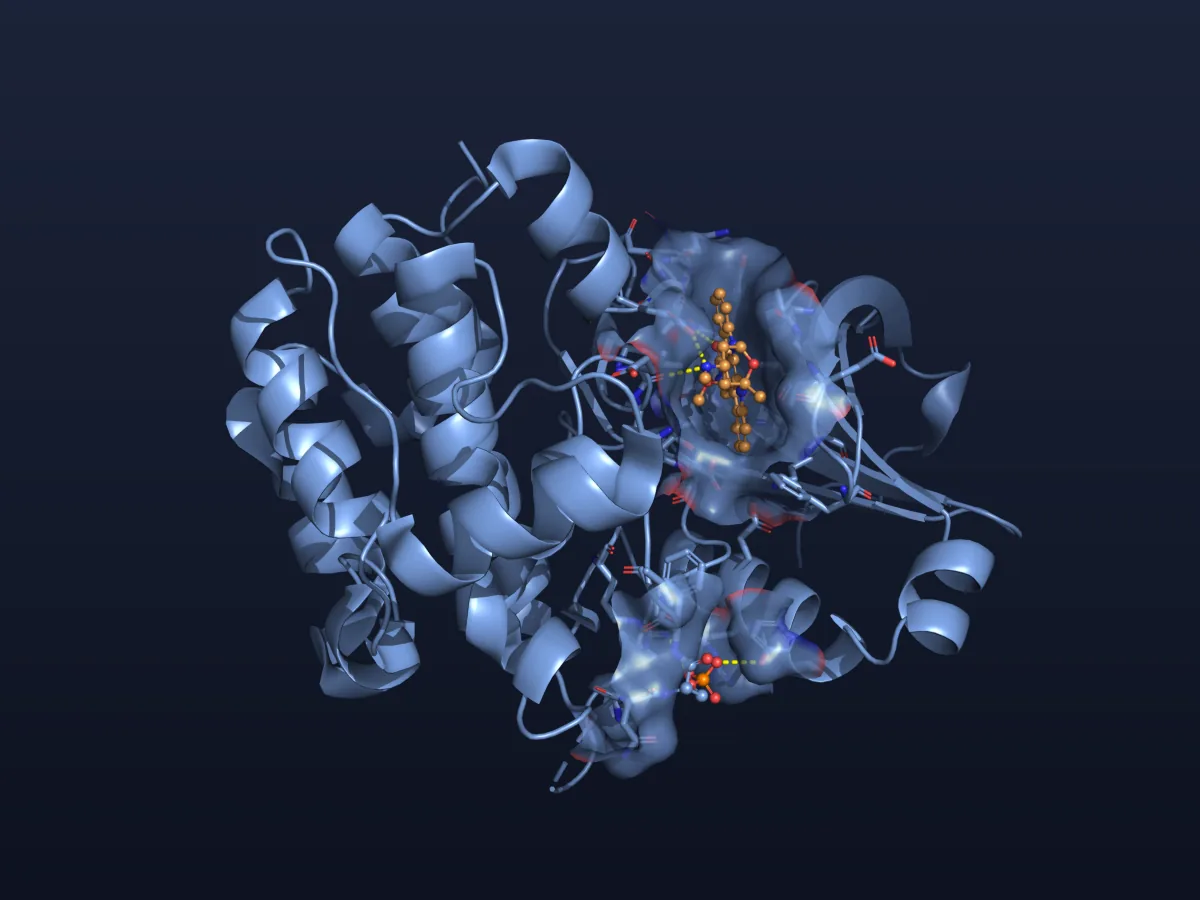
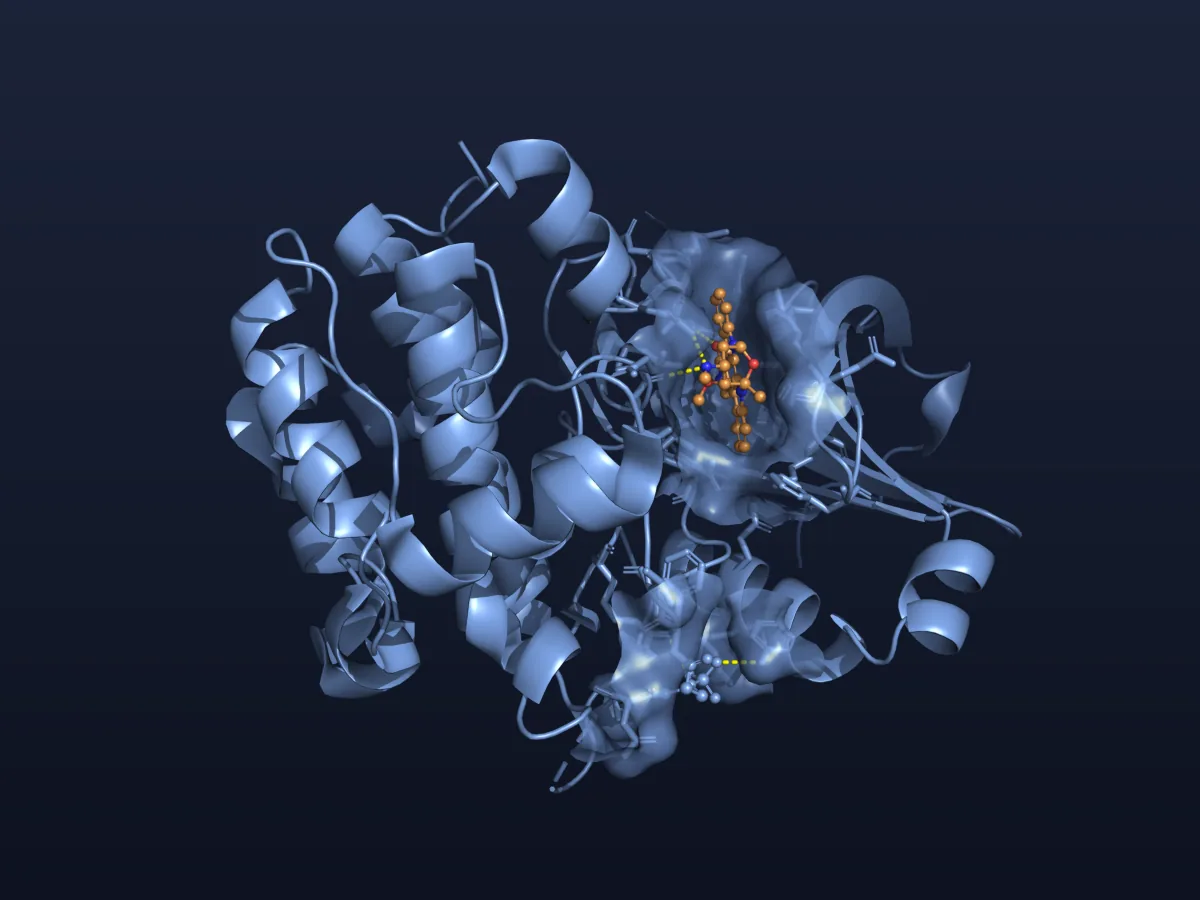
docs(site): a Presets section with one picture per menu row
- docs/index.html: new section "Presets" (and a nav link) with 42
  tiles in seven groups (cartoon, atoms and bonds, surface, binding,
  light, theme, floor), each captioned with its menu path; filter
  buttons per group. The filter script now works per section.
- docs/img/presets/: 42 ray-traced WebP pictures (800 x 600, 2.1 MB),
  hemoglobin 4hhb in the pastel palette, binding rows on 1oky.
- docs/media/capture/gallery.py: the PRESETS table; a theme is set
  before and after the preset, so ligands keep the theme's color.
  Re-rendered with it: kinase-floor-sage, kinase-pocket-night.
- docs/media/README.md: how the presets pictures were made.

Docs only: no version, no ChangeLog entry.

diff --git a/docs/index.html b/docs/index.html
@@ -130,6 +130,7 @@ nav .links a:hover { color: var(--text); text-decoration: none; }
 .grid button { width: 100%; border-radius: 10px; overflow: hidden; border: 1px solid var(--line); }
 .grid img { width: 100%; aspect-ratio: 4 / 3; object-fit: cover; transition: transform 0.3s; }
 .grid button:hover img { transform: scale(1.04); }
+.grid.small { grid-template-columns: repeat(auto-fill, minmax(200px, 1fr)); }
 .grid figcaption { font-size: 14px; color: var(--muted); padding: 6px 2px 0; }
 
 /* download */
@@ -160,6 +161,7 @@ dialog .close { position: fixed; top: 14px; right: 20px; font-size: 32px; line-h
     <a class="brand" href="#top"><img src="img/logo-mark.png" alt="">pymolish-studio</a>
     <div class="links">
       <a class="opt" href="#features">Features</a>
+      <a class="opt" href="#presets">Presets</a>
       <a href="#gallery">Gallery</a>
       <a class="opt" href="#download">Download</a>
       <a class="opt" href="https://github.com/adrian-jasinski/pymolish-studio/blob/master/docs/README.md">Docs</a>
@@ -321,6 +323,69 @@ dialog .close { position: fixed; top: 14px; right: 20px; font-size: 32px; line-h
   </div>
 </section>
 
+<section id="presets">
+  <div class="wrap">
+    <h2>Presets</h2>
+    <p class="muted">One click in the Presets menu. Same molecule, same colors: only the preset changes.</p>
+
+    <div class="chips" role="group" aria-label="Filter the presets">
+      <button aria-pressed="true" data-f="all">All</button>
+      <button aria-pressed="false" data-f="cartoon">Cartoon</button>
+      <button aria-pressed="false" data-f="atoms">Atoms</button>
+      <button aria-pressed="false" data-f="surface">Surface</button>
+      <button aria-pressed="false" data-f="binding">Binding</button>
+      <button aria-pressed="false" data-f="light">Light</button>
+      <button aria-pressed="false" data-f="theme">Theme</button>
+      <button aria-pressed="false" data-f="floor">Floor</button>
+    </div>
+
+    <div class="grid small">
+      <figure data-tags="cartoon"><button data-full="img/presets/cartoon-pretty.webp" data-cap="Presets › cartoon › pretty — hemoglobin (4hhb)"><img loading="lazy" src="img/presets/cartoon-pretty.webp" width="800" height="600" alt="Presets › cartoon › pretty — hemoglobin (4hhb)"></button><figcaption><span class="muted">cartoon ›</span> pretty</figcaption></figure>
+      <figure data-tags="cartoon"><button data-full="img/presets/cartoon-publication.webp" data-cap="Presets › cartoon › publication — hemoglobin (4hhb)"><img loading="lazy" src="img/presets/cartoon-publication.webp" width="800" height="600" alt="Presets › cartoon › publication — hemoglobin (4hhb)"></button><figcaption><span class="muted">cartoon ›</span> publication</figcaption></figure>
+      <figure data-tags="cartoon"><button data-full="img/presets/cartoon-technical.webp" data-cap="Presets › cartoon › technical — hemoglobin (4hhb)"><img loading="lazy" src="img/presets/cartoon-technical.webp" width="800" height="600" alt="Presets › cartoon › technical — hemoglobin (4hhb)"></button><figcaption><span class="muted">cartoon ›</span> technical</figcaption></figure>
+      <figure data-tags="cartoon"><button data-full="img/presets/cartoon-b-factor-putty.webp" data-cap="Presets › cartoon › b factor putty — hemoglobin (4hhb)"><img loading="lazy" src="img/presets/cartoon-b-factor-putty.webp" width="800" height="600" alt="Presets › cartoon › b factor putty — hemoglobin (4hhb)"></button><figcaption><span class="muted">cartoon ›</span> b factor putty</figcaption></figure>
+      <figure data-tags="cartoon"><button data-full="img/presets/cartoon-wire.webp" data-cap="Presets › cartoon › wire — hemoglobin (4hhb)"><img loading="lazy" src="img/presets/cartoon-wire.webp" width="800" height="600" alt="Presets › cartoon › wire — hemoglobin (4hhb)"></button><figcaption><span class="muted">cartoon ›</span> wire</figcaption></figure>
+      <figure data-tags="cartoon"><button data-full="img/presets/cartoon-spring.webp" data-cap="Presets › cartoon › spring — hemoglobin (4hhb)"><img loading="lazy" src="img/presets/cartoon-spring.webp" width="800" height="600" alt="Presets › cartoon › spring — hemoglobin (4hhb)"></button><figcaption><span class="muted">cartoon ›</span> spring</figcaption></figure>
+      <figure data-tags="cartoon"><button data-full="img/presets/cartoon-cylinders.webp" data-cap="Presets › cartoon › cylinders — hemoglobin (4hhb)"><img loading="lazy" src="img/presets/cartoon-cylinders.webp" width="800" height="600" alt="Presets › cartoon › cylinders — hemoglobin (4hhb)"></button><figcaption><span class="muted">cartoon ›</span> cylinders</figcaption></figure>
+      <figure data-tags="cartoon"><button data-full="img/presets/cartoon-contour.webp" data-cap="Presets › cartoon › contour cartoon — hemoglobin (4hhb)"><img loading="lazy" src="img/presets/cartoon-contour.webp" width="800" height="600" alt="Presets › cartoon › contour cartoon — hemoglobin (4hhb)"></button><figcaption><span class="muted">cartoon ›</span> contour cartoon</figcaption></figure>
+      <figure data-tags="atoms"><button data-full="img/presets/atoms-space-filling.webp" data-cap="Presets › atoms and bonds › space filling — hemoglobin (4hhb)"><img loading="lazy" src="img/presets/atoms-space-filling.webp" width="800" height="600" alt="Presets › atoms and bonds › space filling — hemoglobin (4hhb)"></button><figcaption><span class="muted">atoms and bonds ›</span> space filling</figcaption></figure>
+      <figure data-tags="atoms"><button data-full="img/presets/atoms-illustrated.webp" data-cap="Presets › atoms and bonds › illustrated atoms — hemoglobin (4hhb)"><img loading="lazy" src="img/presets/atoms-illustrated.webp" width="800" height="600" alt="Presets › atoms and bonds › illustrated atoms — hemoglobin (4hhb)"></button><figcaption><span class="muted">atoms and bonds ›</span> illustrated atoms</figcaption></figure>
+      <figure data-tags="atoms"><button data-full="img/presets/atoms-ball-and-stick.webp" data-cap="Presets › atoms and bonds › ball and stick — hemoglobin (4hhb)"><img loading="lazy" src="img/presets/atoms-ball-and-stick.webp" width="800" height="600" alt="Presets › atoms and bonds › ball and stick — hemoglobin (4hhb)"></button><figcaption><span class="muted">atoms and bonds ›</span> ball and stick</figcaption></figure>
+      <figure data-tags="atoms"><button data-full="img/presets/atoms-licorice.webp" data-cap="Presets › atoms and bonds › licorice — hemoglobin (4hhb)"><img loading="lazy" src="img/presets/atoms-licorice.webp" width="800" height="600" alt="Presets › atoms and bonds › licorice — hemoglobin (4hhb)"></button><figcaption><span class="muted">atoms and bonds ›</span> licorice</figcaption></figure>
+      <figure data-tags="surface"><button data-full="img/presets/surface-glossy.webp" data-cap="Presets › surface › glossy — hemoglobin (4hhb)"><img loading="lazy" src="img/presets/surface-glossy.webp" width="800" height="600" alt="Presets › surface › glossy — hemoglobin (4hhb)"></button><figcaption><span class="muted">surface ›</span> glossy</figcaption></figure>
+      <figure data-tags="surface"><button data-full="img/presets/surface-candy-glass.webp" data-cap="Presets › surface › candy glass — hemoglobin (4hhb)"><img loading="lazy" src="img/presets/surface-candy-glass.webp" width="800" height="600" alt="Presets › surface › candy glass — hemoglobin (4hhb)"></button><figcaption><span class="muted">surface ›</span> candy glass</figcaption></figure>
+      <figure data-tags="surface"><button data-full="img/presets/surface-frosted.webp" data-cap="Presets › surface › frosted — hemoglobin (4hhb)"><img loading="lazy" src="img/presets/surface-frosted.webp" width="800" height="600" alt="Presets › surface › frosted — hemoglobin (4hhb)"></button><figcaption><span class="muted">surface ›</span> frosted</figcaption></figure>
+      <figure data-tags="surface"><button data-full="img/presets/surface-clay.webp" data-cap="Presets › surface › clay — hemoglobin (4hhb)"><img loading="lazy" src="img/presets/surface-clay.webp" width="800" height="600" alt="Presets › surface › clay — hemoglobin (4hhb)"></button><figcaption><span class="muted">surface ›</span> clay</figcaption></figure>
+      <figure data-tags="surface"><button data-full="img/presets/surface-glass.webp" data-cap="Presets › surface › glass — hemoglobin (4hhb)"><img loading="lazy" src="img/presets/surface-glass.webp" width="800" height="600" alt="Presets › surface › glass — hemoglobin (4hhb)"></button><figcaption><span class="muted">surface ›</span> glass</figcaption></figure>
+      <figure data-tags="surface"><button data-full="img/presets/surface-balls-in-glass.webp" data-cap="Presets › surface › balls in glass — hemoglobin (4hhb)"><img loading="lazy" src="img/presets/surface-balls-in-glass.webp" width="800" height="600" alt="Presets › surface › balls in glass — hemoglobin (4hhb)"></button><figcaption><span class="muted">surface ›</span> balls in glass</figcaption></figure>
+      <figure data-tags="surface"><button data-full="img/presets/surface-bond-shell.webp" data-cap="Presets › surface › bond shell — hemoglobin (4hhb)"><img loading="lazy" src="img/presets/surface-bond-shell.webp" width="800" height="600" alt="Presets › surface › bond shell — hemoglobin (4hhb)"></button><figcaption><span class="muted">surface ›</span> bond shell</figcaption></figure>
+      <figure data-tags="binding"><button data-full="img/presets/binding-ligands.webp" data-cap="Presets › binding › ligands — kinase with staurosporine (1oky)"><img loading="lazy" src="img/presets/binding-ligands.webp" width="800" height="600" alt="Presets › binding › ligands — kinase with staurosporine (1oky)"></button><figcaption><span class="muted">binding ›</span> ligands</figcaption></figure>
+      <figure data-tags="binding"><button data-full="img/presets/binding-site-solid.webp" data-cap="Presets › binding › ligand sites › solid surface — kinase with staurosporine (1oky)"><img loading="lazy" src="img/presets/binding-site-solid.webp" width="800" height="600" alt="Presets › binding › ligand sites › solid surface — kinase with staurosporine (1oky)"></button><figcaption><span class="muted">binding ›</span> ligand sites › solid surface</figcaption></figure>
+      <figure data-tags="binding"><button data-full="img/presets/binding-site-transparent.webp" data-cap="Presets › binding › ligand sites › transparent surface — kinase with staurosporine (1oky)"><img loading="lazy" src="img/presets/binding-site-transparent.webp" width="800" height="600" alt="Presets › binding › ligand sites › transparent surface — kinase with staurosporine (1oky)"></button><figcaption><span class="muted">binding ›</span> ligand sites › transparent surface</figcaption></figure>
+      <figure data-tags="binding"><button data-full="img/presets/binding-site-mesh.webp" data-cap="Presets › binding › ligand sites › mesh surface — kinase with staurosporine (1oky)"><img loading="lazy" src="img/presets/binding-site-mesh.webp" width="800" height="600" alt="Presets › binding › ligand sites › mesh surface — kinase with staurosporine (1oky)"></button><figcaption><span class="muted">binding ›</span> ligand sites › mesh surface</figcaption></figure>
+      <figure data-tags="binding"><button data-full="img/presets/binding-site-dots.webp" data-cap="Presets › binding › ligand sites › dot surface — kinase with staurosporine (1oky)"><img loading="lazy" src="img/presets/binding-site-dots.webp" width="800" height="600" alt="Presets › binding › ligand sites › dot surface — kinase with staurosporine (1oky)"></button><figcaption><span class="muted">binding ›</span> ligand sites › dot surface</figcaption></figure>
+      <figure data-tags="binding"><button data-full="img/presets/binding-interface.webp" data-cap="Presets › binding › protein interface — hemoglobin (4hhb)"><img loading="lazy" src="img/presets/binding-interface.webp" width="800" height="600" alt="Presets › binding › protein interface — hemoglobin (4hhb)"></button><figcaption><span class="muted">binding ›</span> protein interface</figcaption></figure>
+      <figure data-tags="binding"><button data-full="img/presets/binding-interaction.webp" data-cap="Presets › binding › protein-protein interaction — hemoglobin (4hhb)"><img loading="lazy" src="img/presets/binding-interaction.webp" width="800" height="600" alt="Presets › binding › protein-protein interaction — hemoglobin (4hhb)"></button><figcaption><span class="muted">binding ›</span> protein-protein interaction</figcaption></figure>
+      <figure data-tags="light"><button data-full="img/presets/light-figure.webp" data-cap="Presets › light › figure on the pretty cartoon — hemoglobin (4hhb)"><img loading="lazy" src="img/presets/light-figure.webp" width="800" height="600" alt="Presets › light › figure on the pretty cartoon — hemoglobin (4hhb)"></button><figcaption><span class="muted">light ›</span> figure</figcaption></figure>
+      <figure data-tags="light"><button data-full="img/presets/light-soft.webp" data-cap="Presets › light › soft on the pretty cartoon — hemoglobin (4hhb)"><img loading="lazy" src="img/presets/light-soft.webp" width="800" height="600" alt="Presets › light › soft on the pretty cartoon — hemoglobin (4hhb)"></button><figcaption><span class="muted">light ›</span> soft</figcaption></figure>
+      <figure data-tags="light"><button data-full="img/presets/light-flat.webp" data-cap="Presets › light › flat on the pretty cartoon — hemoglobin (4hhb)"><img loading="lazy" src="img/presets/light-flat.webp" width="800" height="600" alt="Presets › light › flat on the pretty cartoon — hemoglobin (4hhb)"></button><figcaption><span class="muted">light ›</span> flat</figcaption></figure>
+      <figure data-tags="light"><button data-full="img/presets/light-comic.webp" data-cap="Presets › light › comic on the pretty cartoon — hemoglobin (4hhb)"><img loading="lazy" src="img/presets/light-comic.webp" width="800" height="600" alt="Presets › light › comic on the pretty cartoon — hemoglobin (4hhb)"></button><figcaption><span class="muted">light ›</span> comic</figcaption></figure>
+      <figure data-tags="light"><button data-full="img/presets/light-sketch.webp" data-cap="Presets › light › sketch on the pretty cartoon — hemoglobin (4hhb)"><img loading="lazy" src="img/presets/light-sketch.webp" width="800" height="600" alt="Presets › light › sketch on the pretty cartoon — hemoglobin (4hhb)"></button><figcaption><span class="muted">light ›</span> sketch</figcaption></figure>
+      <figure data-tags="light"><button data-full="img/presets/light-x-ray.webp" data-cap="Presets › light › x-ray on the pretty cartoon — hemoglobin (4hhb)"><img loading="lazy" src="img/presets/light-x-ray.webp" width="800" height="600" alt="Presets › light › x-ray on the pretty cartoon — hemoglobin (4hhb)"></button><figcaption><span class="muted">light ›</span> x-ray</figcaption></figure>
+      <figure data-tags="light"><button data-full="img/presets/light-studio.webp" data-cap="Presets › light › studio on the pretty cartoon — hemoglobin (4hhb)"><img loading="lazy" src="img/presets/light-studio.webp" width="800" height="600" alt="Presets › light › studio on the pretty cartoon — hemoglobin (4hhb)"></button><figcaption><span class="muted">light ›</span> studio</figcaption></figure>
+      <figure data-tags="light"><button data-full="img/presets/light-glossy.webp" data-cap="Presets › light › glossy (light only) on the pretty cartoon — hemoglobin (4hhb)"><img loading="lazy" src="img/presets/light-glossy.webp" width="800" height="600" alt="Presets › light › glossy (light only) on the pretty cartoon — hemoglobin (4hhb)"></button><figcaption><span class="muted">light ›</span> glossy (light only)</figcaption></figure>
+      <figure data-tags="light"><button data-full="img/presets/light-glow.webp" data-cap="Presets › light › glow on the pretty cartoon — hemoglobin (4hhb)"><img loading="lazy" src="img/presets/light-glow.webp" width="800" height="600" alt="Presets › light › glow on the pretty cartoon — hemoglobin (4hhb)"></button><figcaption><span class="muted">light ›</span> glow</figcaption></figure>
+      <figure data-tags="theme"><button data-full="img/presets/theme-clay.webp" data-cap="Presets › theme › clay on the pretty cartoon — hemoglobin (4hhb)"><img loading="lazy" src="img/presets/theme-clay.webp" width="800" height="600" alt="Presets › theme › clay on the pretty cartoon — hemoglobin (4hhb)"></button><figcaption><span class="muted">theme ›</span> clay</figcaption></figure>
+      <figure data-tags="theme"><button data-full="img/presets/theme-blue.webp" data-cap="Presets › theme › blue on the pretty cartoon — hemoglobin (4hhb)"><img loading="lazy" src="img/presets/theme-blue.webp" width="800" height="600" alt="Presets › theme › blue on the pretty cartoon — hemoglobin (4hhb)"></button><figcaption><span class="muted">theme ›</span> blue</figcaption></figure>
+      <figure data-tags="theme"><button data-full="img/presets/theme-sage.webp" data-cap="Presets › theme › sage on the pretty cartoon — hemoglobin (4hhb)"><img loading="lazy" src="img/presets/theme-sage.webp" width="800" height="600" alt="Presets › theme › sage on the pretty cartoon — hemoglobin (4hhb)"></button><figcaption><span class="muted">theme ›</span> sage</figcaption></figure>
+      <figure data-tags="theme"><button data-full="img/presets/theme-mint.webp" data-cap="Presets › theme › mint on the pretty cartoon — hemoglobin (4hhb)"><img loading="lazy" src="img/presets/theme-mint.webp" width="800" height="600" alt="Presets › theme › mint on the pretty cartoon — hemoglobin (4hhb)"></button><figcaption><span class="muted">theme ›</span> mint</figcaption></figure>
+      <figure data-tags="theme"><button data-full="img/presets/theme-night.webp" data-cap="Presets › theme › night on the pretty cartoon — hemoglobin (4hhb)"><img loading="lazy" src="img/presets/theme-night.webp" width="800" height="600" alt="Presets › theme › night on the pretty cartoon — hemoglobin (4hhb)"></button><figcaption><span class="muted">theme ›</span> night</figcaption></figure>
+      <figure data-tags="floor"><button data-full="img/presets/floor-floor.webp" data-cap="Presets › floor › floor on the pretty cartoon — hemoglobin (4hhb)"><img loading="lazy" src="img/presets/floor-floor.webp" width="800" height="600" alt="Presets › floor › floor on the pretty cartoon — hemoglobin (4hhb)"></button><figcaption><span class="muted">floor ›</span> floor</figcaption></figure>
+      <figure data-tags="floor"><button data-full="img/presets/floor-mirror.webp" data-cap="Presets › floor › floor with mirror image on the pretty cartoon — hemoglobin (4hhb)"><img loading="lazy" src="img/presets/floor-mirror.webp" width="800" height="600" alt="Presets › floor › floor with mirror image on the pretty cartoon — hemoglobin (4hhb)"></button><figcaption><span class="muted">floor ›</span> floor with mirror image</figcaption></figure>
+    </div>
+  </div>
+</section>
+
 <section id="gallery">
   <div class="wrap">
     <h2>Gallery</h2>
@@ -428,13 +493,15 @@ box.addEventListener("click", (e) => {
 });
 box.addEventListener("close", () => body.replaceChildren()); // stops a clip
 
-document.querySelector(".chips").addEventListener("click", (e) => {
-  const b = e.target.closest("button");
-  if (!b) return;
-  for (const x of b.parentNode.children) x.setAttribute("aria-pressed", x === b);
-  for (const g of document.querySelectorAll(".grid figure"))
-    g.hidden = b.dataset.f !== "all" && !g.dataset.tags.split(" ").includes(b.dataset.f);
-});
+// each row of filter buttons filters the grid right after it
+for (const chips of document.querySelectorAll(".chips"))
+  chips.addEventListener("click", (e) => {
+    const b = e.target.closest("button");
+    if (!b) return;
+    for (const x of chips.children) x.setAttribute("aria-pressed", x === b);
+    for (const g of chips.nextElementSibling.children)
+      g.hidden = b.dataset.f !== "all" && !g.dataset.tags.split(" ").includes(b.dataset.f);
+  });
 </script>
 </body>
 </html>

diff --git a/docs/media/capture/gallery.py b/docs/media/capture/gallery.py
@@ -1,7 +1,8 @@
-# Ray-traced pictures for the gallery of docs/index.html, made headless:
+# Ray-traced pictures for the galleries of docs/index.html, made headless:
 #   PYMOLISH_CAPTURE=<an empty folder> pymolish -ckq $PWD/docs/media/capture/gallery.py [-- id ...]
 # Each look is set by the call its menu row makes (preset.from_menu,
-# preset.look, preset.theme, stage, palette, glow). Writes out/gallery/<id>.webp.
+# preset.look, preset.theme, stage, palette, glow). Writes out/gallery/<id>.webp
+# (RECIPES, 1200 x 900) and out/presets/<id>.webp (PRESETS, 800 x 600).
 import os
 import sys
 import time
@@ -11,11 +12,9 @@ from PIL import Image
 from pymol import cmd, preset, util
 
 B = os.environ["PYMOLISH_CAPTURE"].rstrip("/") + "/"
-OUT = B + "out/gallery/"
 os.makedirs(B + "work", exist_ok=True)
-os.makedirs(OUT, exist_ok=True)
 cmd.cd(B + "work")
-SIZE = (1200, 900)
+SIZE = (1200, 900)  # every picture is 4:3; the presets are smaller
 # 1oky: the ligand seen through the opening of its pocket (from render.py)
 POCKET = (
     -0.4173,
@@ -37,7 +36,7 @@ POCKET = (
     209.7483,
     -20.0,
 )
-BLACK, WHITE = "0x000000", "0xffffff"
+BLACK, WHITE, DARK = "0x000000", "0xffffff", "0x111620"
 
 # id: (pdb, preset row, palette, background, light, glow, theme, floor)
 # preset row: a from_menu name, or ("surface", material)
@@ -66,7 +65,58 @@ RECIPES = {
     "hemoglobin-figure-colorblind-glow": ("4hhb", "pub_solv", "colorblind", WHITE, "figure", 1, None, None),
     "hemoglobin-sketch":                 ("4hhb", "pretty_solv", "deep", WHITE, "sketch", 0, None, None),
 }
+
+# One picture per row of the Presets menu: hemoglobin in the pastel palette
+# on the dark of the web page, so that only the preset changes. The binding
+# rows use the kinase with its ligand.
+H = ("4hhb", "pretty_solv", "pastel", DARK, None, 0, None, None)
+K = ("1oky",) + H[1:]
+PRESETS = {
+    "cartoon-pretty":         H,
+    "cartoon-publication":    H[:1] + ("pub_solv",) + H[2:],
+    "cartoon-technical":      H[:1] + ("technical",) + H[2:],
+    "cartoon-b-factor-putty": H[:1] + ("b_factor_putty",) + H[2:],
+    "cartoon-wire":           H[:1] + ("wire",) + H[2:],
+    "cartoon-spring":         H[:1] + ("spring",) + H[2:],
+    "cartoon-cylinders":      H[:1] + ("cylinders",) + H[2:],
+    "cartoon-contour":        H[:1] + ("illustration",) + H[2:],
+    "atoms-space-filling":    H[:1] + ("space_filling",) + H[2:],
+    "atoms-illustrated":      H[:1] + ("illustrated_atoms",) + H[2:],
+    "atoms-ball-and-stick":   H[:1] + ("ball_and_stick",) + H[2:],
+    "atoms-licorice":         H[:1] + ("licorice",) + H[2:],
+    "surface-glossy":         H[:1] + (("surface", "glossy"),) + H[2:],
+    "surface-candy-glass":    H[:1] + (("surface", "candy glass"),) + H[2:],
+    "surface-frosted":        H[:1] + (("surface", "frosted"),) + H[2:],
+    "surface-clay":           H[:1] + (("surface", "clay"),) + H[2:],
+    "surface-glass":          H[:1] + ("glass",) + H[2:],
+    "surface-balls-in-glass": H[:1] + ("balls_in_glass",) + H[2:],
+    "surface-bond-shell":     H[:1] + ("bond_shell",) + H[2:],
+    "binding-ligands":        K[:1] + ("ligands",) + K[2:],
+    "binding-site-solid":     K[:1] + ("ligand_sites",) + K[2:],
+    "binding-site-transparent": K[:1] + ("ligand_sites_trans",) + K[2:],
+    "binding-site-mesh":      K[:1] + ("ligand_sites_mesh",) + K[2:],
+    "binding-site-dots":      K[:1] + ("ligand_sites_dots",) + K[2:],
+    "binding-interface":      H[:1] + ("interface",) + H[2:],
+    "binding-interaction":    H[:1] + ("interaction",) + H[2:],
+    "light-figure":           H[:4] + ("figure",) + H[5:],
+    "light-soft":             H[:4] + ("soft",) + H[5:],
+    "light-flat":             H[:4] + ("flat",) + H[5:],
+    "light-comic":            H[:4] + ("comic",) + H[5:],
+    "light-sketch":           H[:3] + (WHITE, "sketch") + H[5:],
+    "light-x-ray":            H[:4] + ("x-ray",) + H[5:],
+    "light-studio":           H[:4] + ("studio",) + H[5:],
+    "light-glossy":           H[:4] + ("glossy",) + H[5:],
+    "light-glow":             H[:5] + (1,) + H[6:],
+    "theme-clay":             H[:2] + (None, None, None, 0, "clay", None),
+    "theme-blue":             H[:2] + (None, None, None, 0, "blue", None),
+    "theme-sage":             H[:2] + (None, None, None, 0, "sage", None),
+    "theme-mint":             H[:2] + (None, None, None, 0, "mint", None),
+    "theme-night":            H[:2] + (None, None, None, 0, "night", None),
+    "floor-floor":            H[:3] + (WHITE, "top light", 0, None, "floor"),
+    "floor-mirror":           H[:3] + (WHITE, None, 0, None, "mirror"),
+}
 # fmt: on
+POCKET_VIEW = {"kinase-frosted-blue", "kinase-pocket-night"}
 
 
 def fit(selection, margin=1.06):
@@ -85,8 +135,9 @@ def fit(selection, margin=1.06):
     cmd.set_view(v)
 
 
-def render(name, pdb, row, palette, bg, light, glow, theme, floor):
+def render(name, out, size, pdb, row, palette, bg, light, glow, theme, floor):
     t = time.time()
+    os.makedirs(out, exist_ok=True)
     cmd.reinitialize()
     cmd.stage("off")  # the floor of the recipe before: see ../README.md
     cmd.fetch(pdb, type="cif")
@@ -105,13 +156,18 @@ def render(name, pdb, row, palette, bg, light, glow, theme, floor):
         preset.from_menu(row[0], pdb, row[1], _self=cmd)
     else:
         preset.from_menu(row, pdb, _self=cmd)
+    if theme:  # again: presets color the ligands by chain
+        preset.theme(theme, pdb, _self=cmd)
     if light:
         preset.look(light, _self=cmd)
     cmd.set("opaque_background", 1)
     cmd.set("antialias", 2)
     cmd.set("glow", glow)
-    if name in ("kinase-frosted-blue", "kinase-pocket-night"):
+    if name in POCKET_VIEW:
         cmd.set_view(POCKET)
+    elif pdb == "1oky" and name.startswith("binding"):  # the site, not the protein
+        cmd.set_view(POCKET)
+        cmd.zoom("resn STU", 8)
     else:  # the nucleosome by its DNA: the histone tails reach far out
         fit(
             pdb + (" and polymer.nucleic" if pdb == "1kx5" else ""),
@@ -119,13 +175,15 @@ def render(name, pdb, row, palette, bg, light, glow, theme, floor):
         )  # room for the floor the tilt shows
     if floor:
         cmd.stage(floor)
-    png = OUT + name + ".png"
-    cmd.png(png, width=SIZE[0], height=SIZE[1], ray=1)
-    Image.open(png).convert("RGB").save(OUT + name + ".webp", quality=82, method=6)
+    png = out + name + ".png"
+    cmd.png(png, width=size[0], height=size[1], ray=1)
+    Image.open(png).convert("RGB").save(out + name + ".webp", quality=82, method=6)
     os.remove(png)
-    size = os.path.getsize(OUT + name + ".webp") // 1024
-    print(f"{name:38} {time.time() - t:5.1f} s {size:4d} KB", flush=True)
+    kb = os.path.getsize(out + name + ".webp") // 1024
+    print(f"{name:38} {time.time() - t:5.1f} s {kb:4d} KB", flush=True)
 
 
-for name in [a for a in sys.argv if a in RECIPES] or RECIPES:
-    render(name, *RECIPES[name])
+JOBS = {name: (B + "out/gallery/", SIZE, *r) for name, r in RECIPES.items()}
+JOBS.update({name: (B + "out/presets/", (800, 600), *r) for name, r in PRESETS.items()})
+for name in [a for a in sys.argv if a in JOBS] or JOBS:
+    render(name, *JOBS[name])

diff --git a/docs/media/README.md b/docs/media/README.md
@@ -133,6 +133,7 @@ Jekyll). It shows the pictures and clips above, and these:
 | File | What | Made with |
 | --- | --- | --- |
 | `img/gallery/*.webp` | 22 ray-traced pictures, 1200 x 900, 2.1 MB together; 20 in the gallery, the nucleosome pair also in the glow slider | `capture/gallery.py`, pymolish 4.96.1, 2026-11-27 |
+| `img/presets/*.webp` | 42 ray-traced pictures, 800 x 600, 2.1 MB together: one per row of the Presets menu, hemoglobin (4hhb) in the pastel palette on the page's dark, the binding rows on the kinase 1oky; light, theme and floor on the pretty cartoon | `capture/gallery.py` (`PRESETS`), pymolish 4.96.1, 2026-11-27, 4 minutes |
 | `img/logo-mark.png` | The ribbon of `img/logo-dark.png` alone, 192 x 192: the icon of the page | Pillow, cut from the logo |
 
 ```
@@ -140,9 +141,10 @@ PYMOLISH_CAPTURE=/an/empty/folder pymolish -ckq $PWD/docs/media/capture/gallery.
 PYMOLISH_CAPTURE=/an/empty/folder pymolish -ckq $PWD/docs/media/capture/gallery.py -- groel-clay
 ```
 
-Each picture is a row of `RECIPES` in the script: structure, preset row,
+Each picture is a row of `RECIPES` or `PRESETS` in the script: structure, preset row,
 palette, background, light, glow, theme, floor, set by the calls of their
-menu rows. Waters and ions are removed, chains get the palette with
+menu rows. A theme is set before the preset (a surface takes its colors)
+and again after it (presets color the ligands by chain). Waters and ions are removed, chains get the palette with
 `util.cbc`, and the view fits the molecule into the 4:3 frame (the two
 pocket pictures of 1oky use the view of `render.py`). The whole set took
 about 13 minutes of ray tracing here, 9.5 of them for the mirror floor
